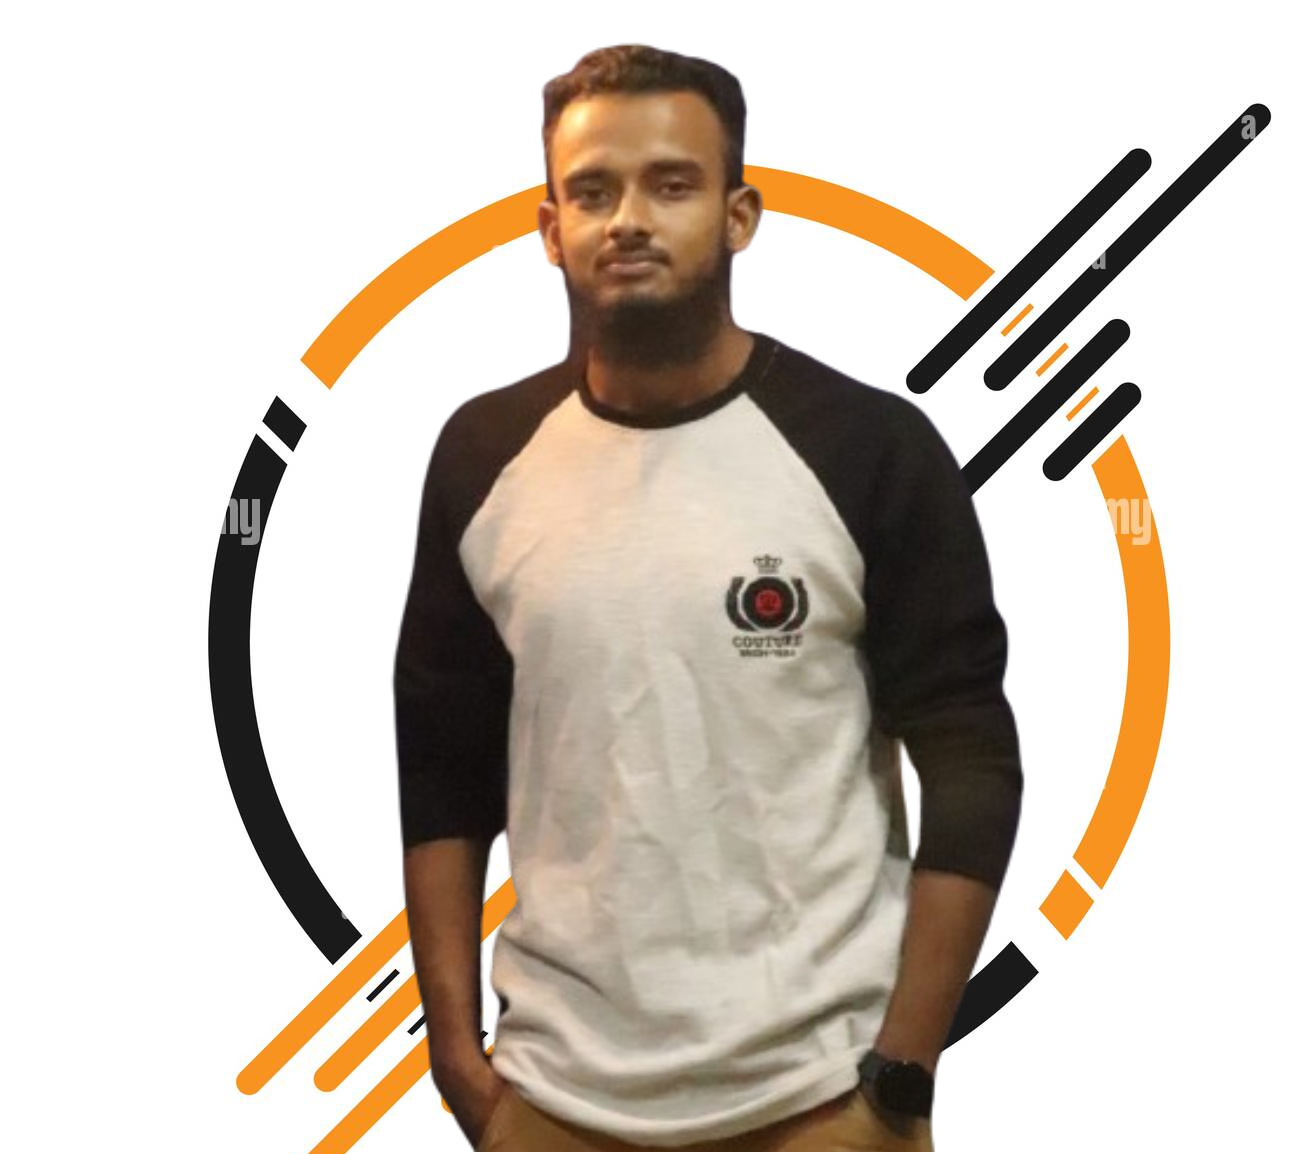
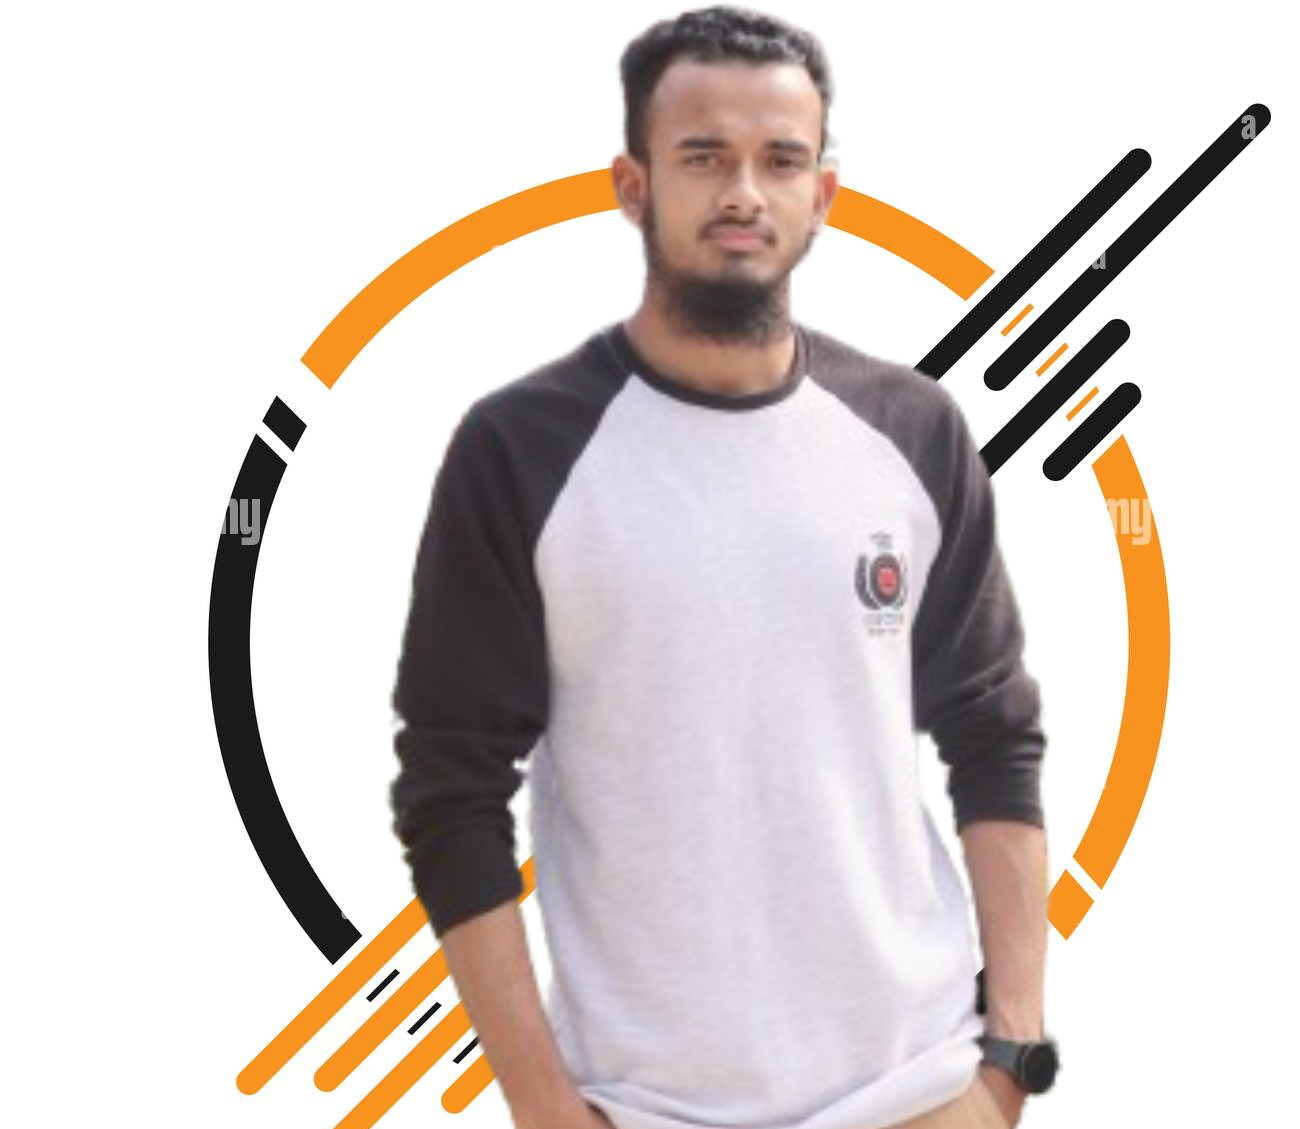
dream-background change

diff --git a/index.html b/index.html
@@ -54,7 +54,7 @@
             </div>
             <div id="baby-web developer" class="experience-item">
                 <h1>Baby Web Developer</h1>
-                <h3 class="orange-color">2022-2024| Hero Lerner</h3>
+                <h3 class="orange-color">2023-2024| Hero Lerner</h3>
                 <p>They didn't offer me a job. But I made myself as a remove web developer.I made their website and
                     showed it to them. They liked it. And uploaded the content.It was fun working at programing her.</p>
             </div>
@@ -62,7 +62,7 @@
     </section>
 </body>
 <footer>
-    <p>@peter psrker 2023,a programming hero initiative.</p>
+    <p>@peter psrker 2024,a programming hero initiative.</p>
 </footer>
 
 </html>

diff --git a/style.css b/style.css
@@ -63,9 +63,9 @@ p {
 }
 
 .dream-big {
-    background-image: url(side\ banner.png);
+    background-image: url(side-banner\ 3.png);
     background-repeat: no-repeat;
-    background-position: right;
+    background-position: right center;
 }
 
 .experience-area {
